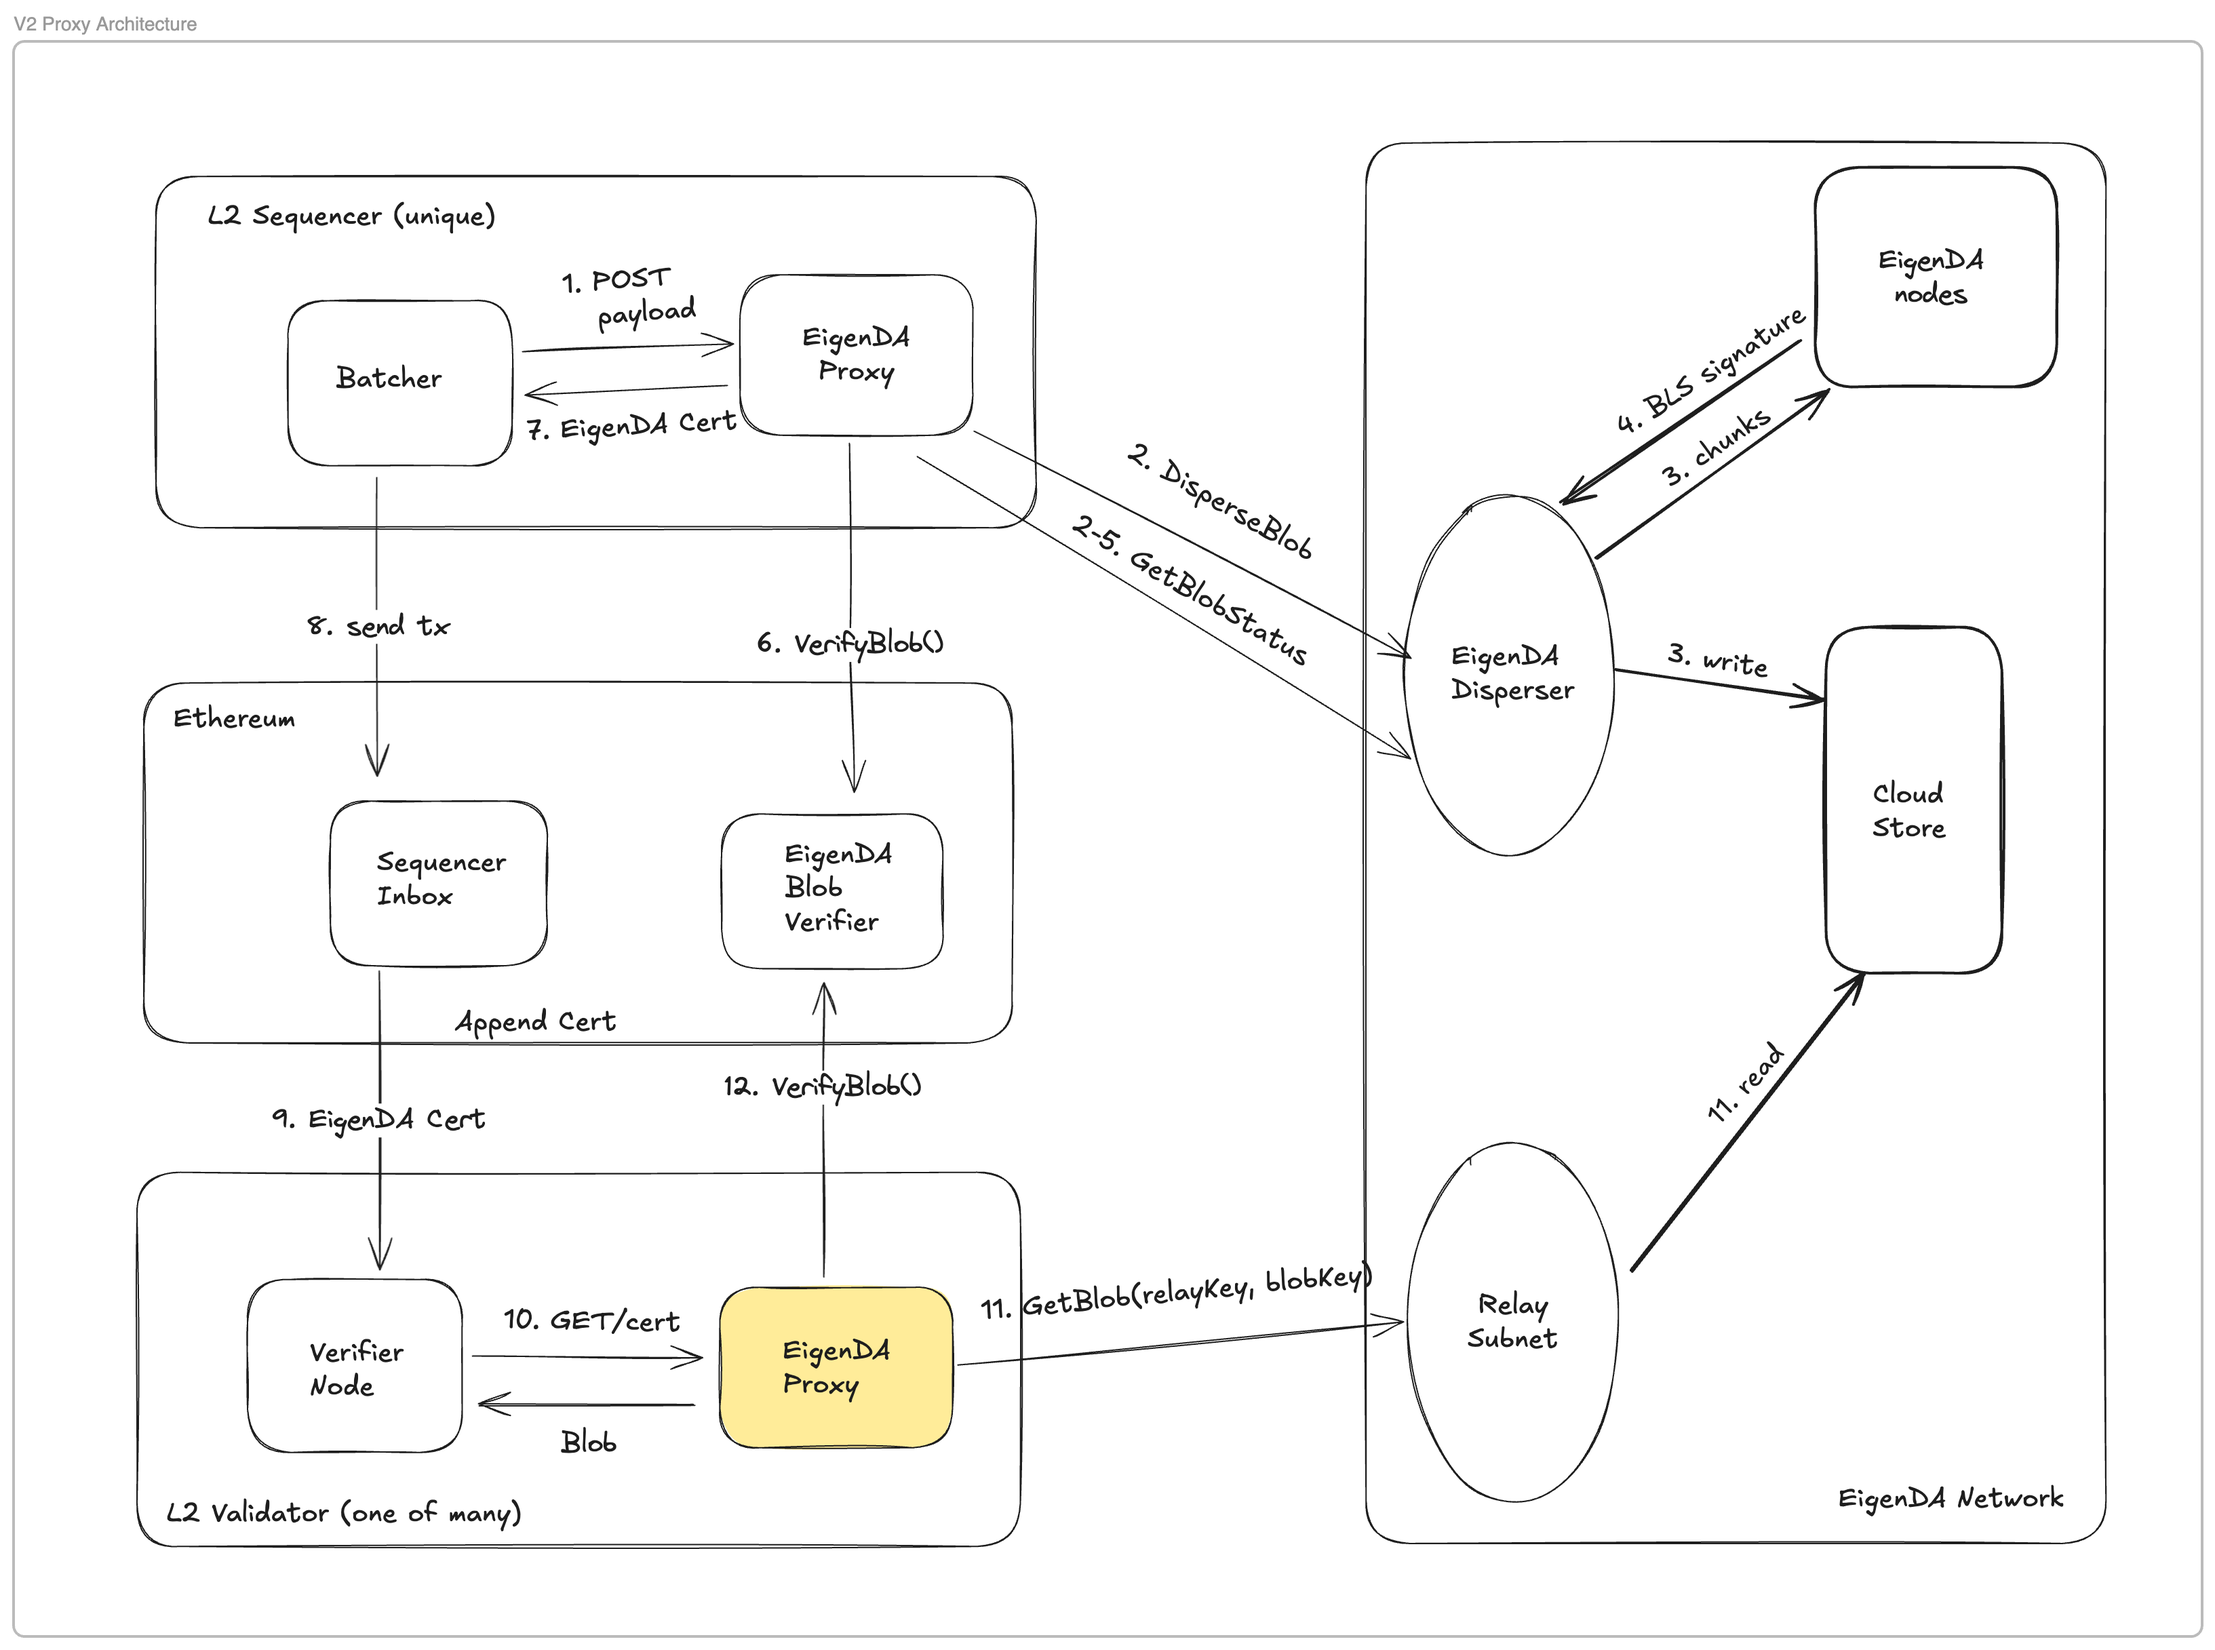
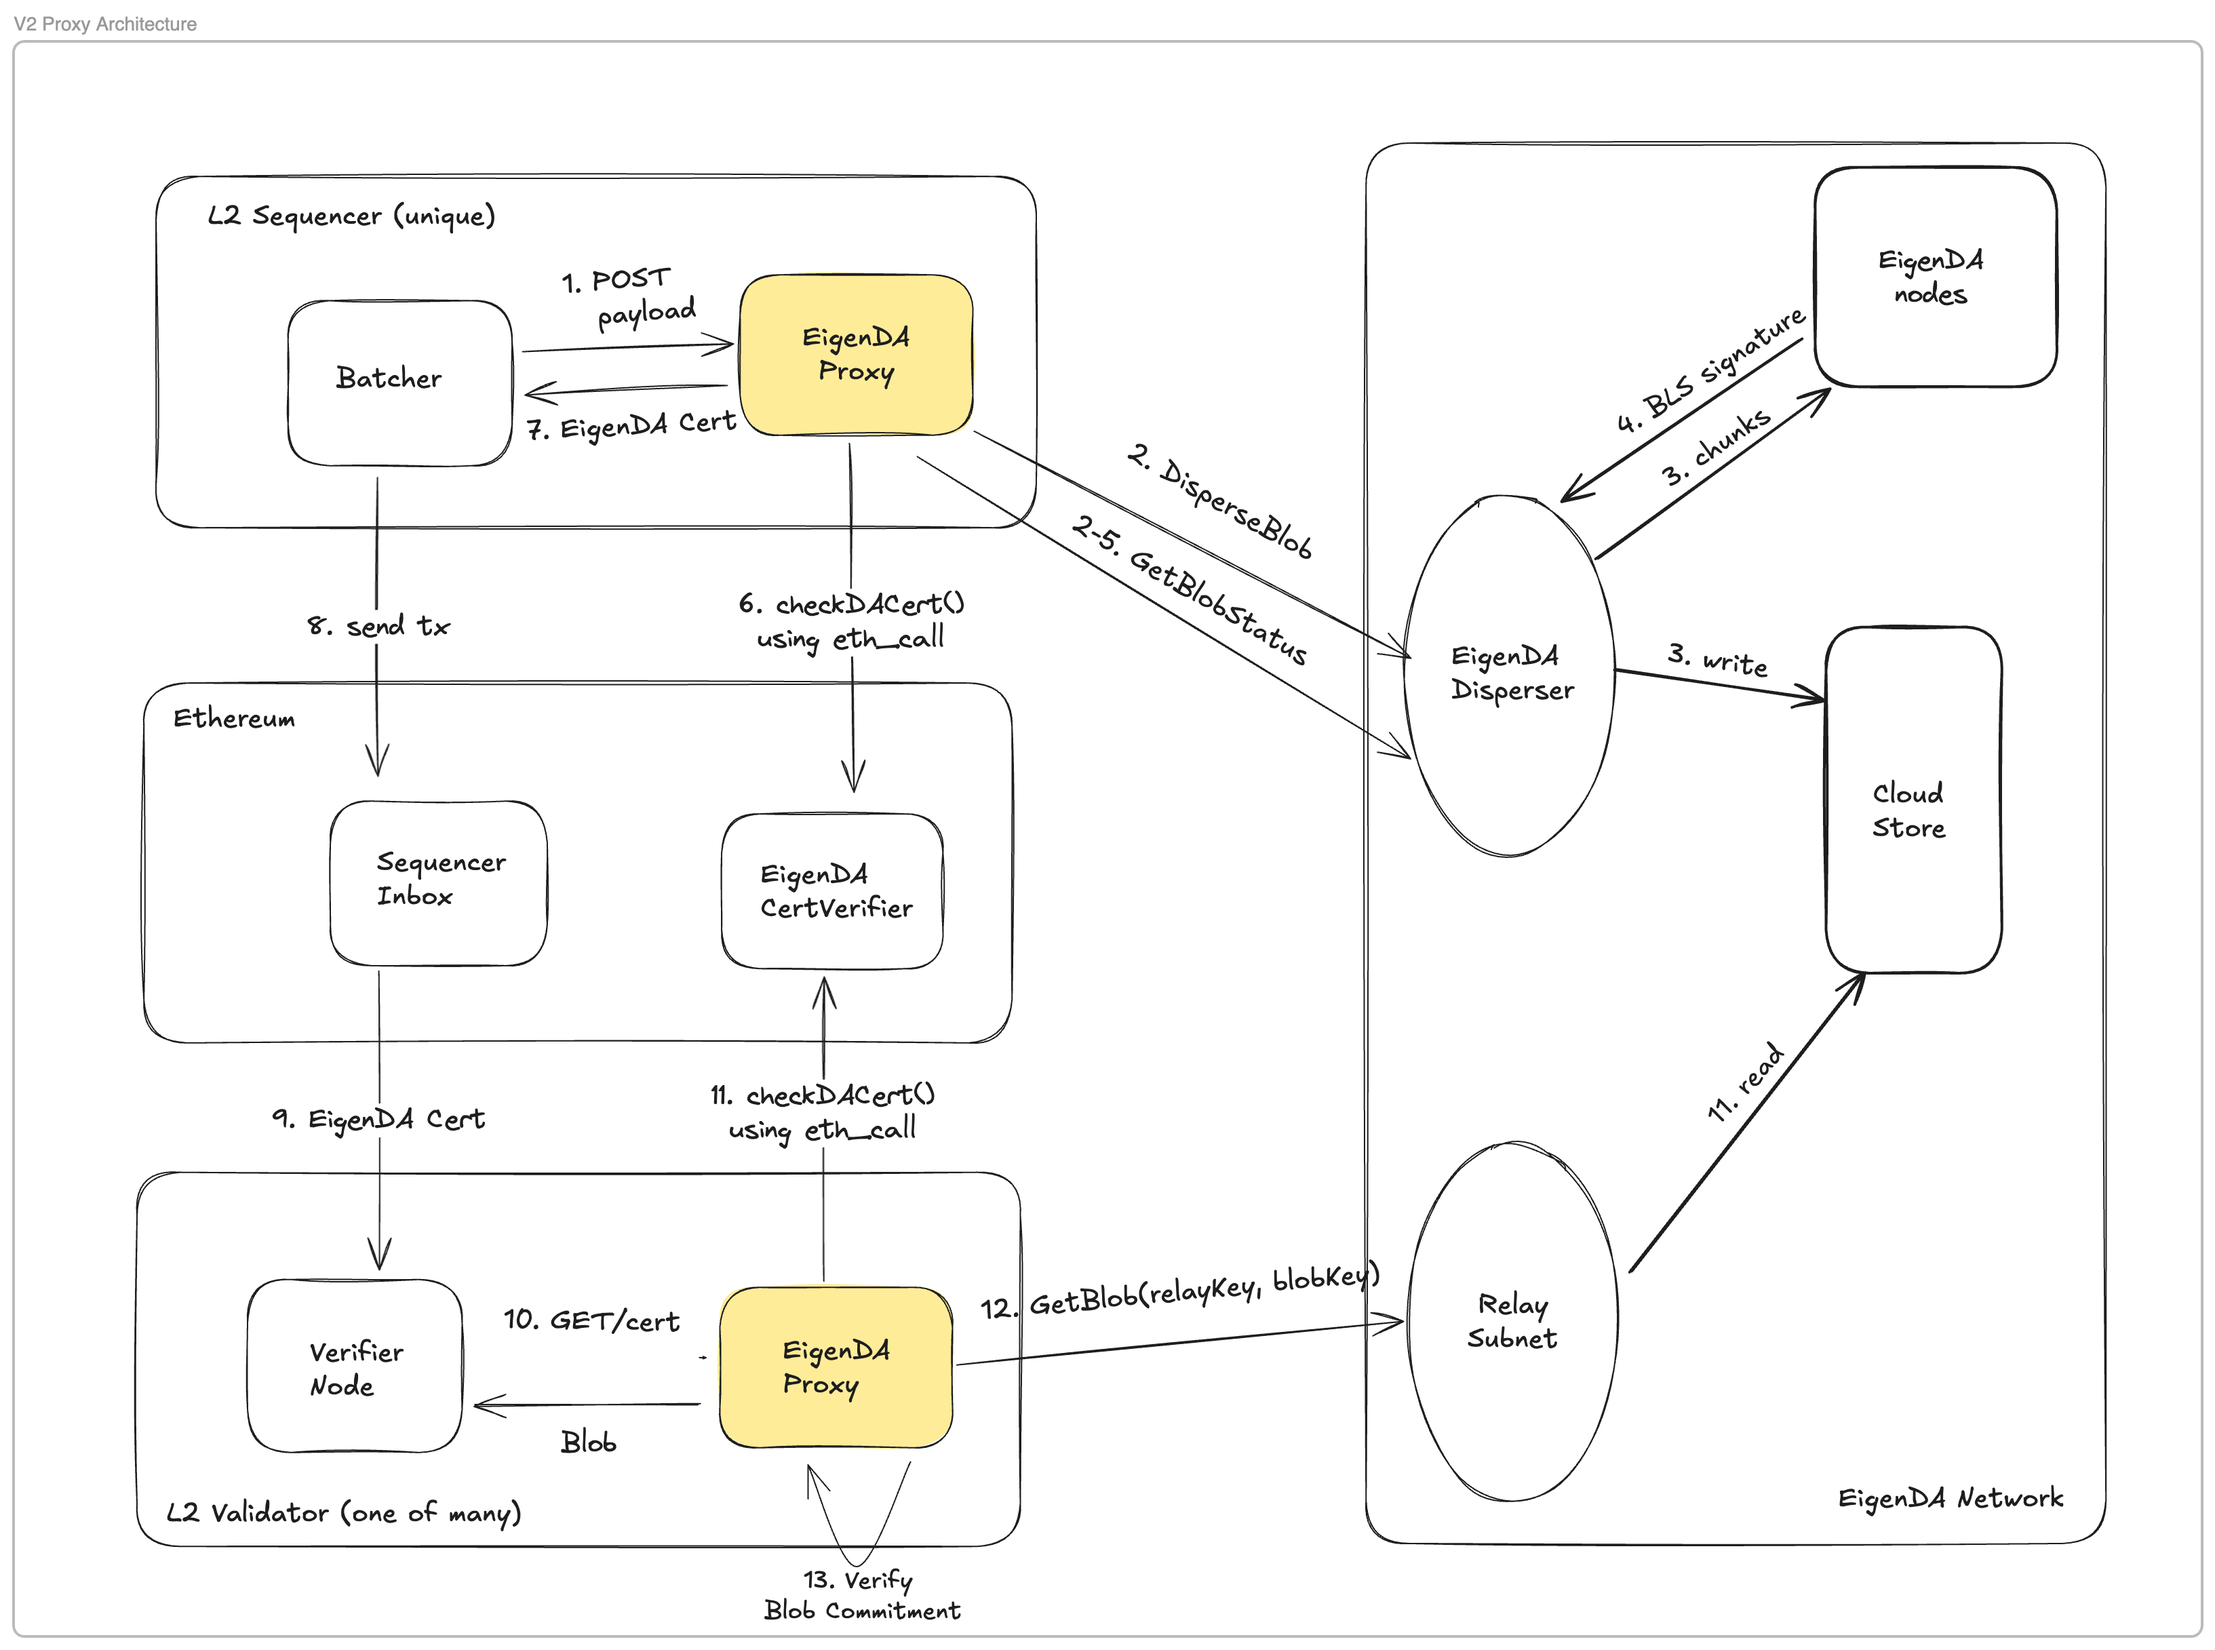
Updated for proxy v2

diff --git a/docs/products/eigenda/integrations-guides/eigenda-proxy/eigenda-proxy.md b/docs/products/eigenda/integrations-guides/eigenda-proxy/eigenda-proxy.md
@@ -34,14 +34,14 @@ Reference this [Quick Start](../quick-start/v2/index.md) to setup payments for y
 Different security measures and runtime optimizations can be applied through various proxy configurations. The different configuration flags can be found [here](https://github.com/Layr-Labs/eigenda-proxy/blob/main/docs/help_out.txt). The following recommendations are advised for different rollup node actor types:
 
 ### Batchers
-Privileged roles that are responsible for submitting rollup batches to EigenDA should have the following presets:
-- Certificate verification enabled. If the rollup (stage = 0) doesn't verify DA certs against the `EigenDACertVerifier` for writing then a `ETH_CONFIRMATION_DEPTH` should be reasonably set (i.e, >= 6). Otherwise, a certificate could be submitted to the sequencer's inbox using an EigenDA blob batch header which is reorged from Ethereum.
+Privileged roles that are responsible for submitting rollup batches to EigenDA.
+
+Use the `eigenda.v2.cert-verifier-router-or-immutable-verifier-addr` option to specify the address of either the `EigenDACertVerifierRouter`
+or immutable `EigenDACertVerifier` contract. Required for performing `eth_call` to verify EigenDA certificates.
 
 ### Bridge Validators
 Validators that are responsible for defending or progressing a child --> parent chain withdraw bridge should be configured with the following:
-- Certificate verification enabled
 - Read fallback configured with a secondary backed to ensure blobs can be read in the event of EigenDA retrieval failure
 
 ### Permissionless Verifiers
-- Certificate verification enabled
 - Use of a cached backend provider which ensures data read from EigenDA is only done once
